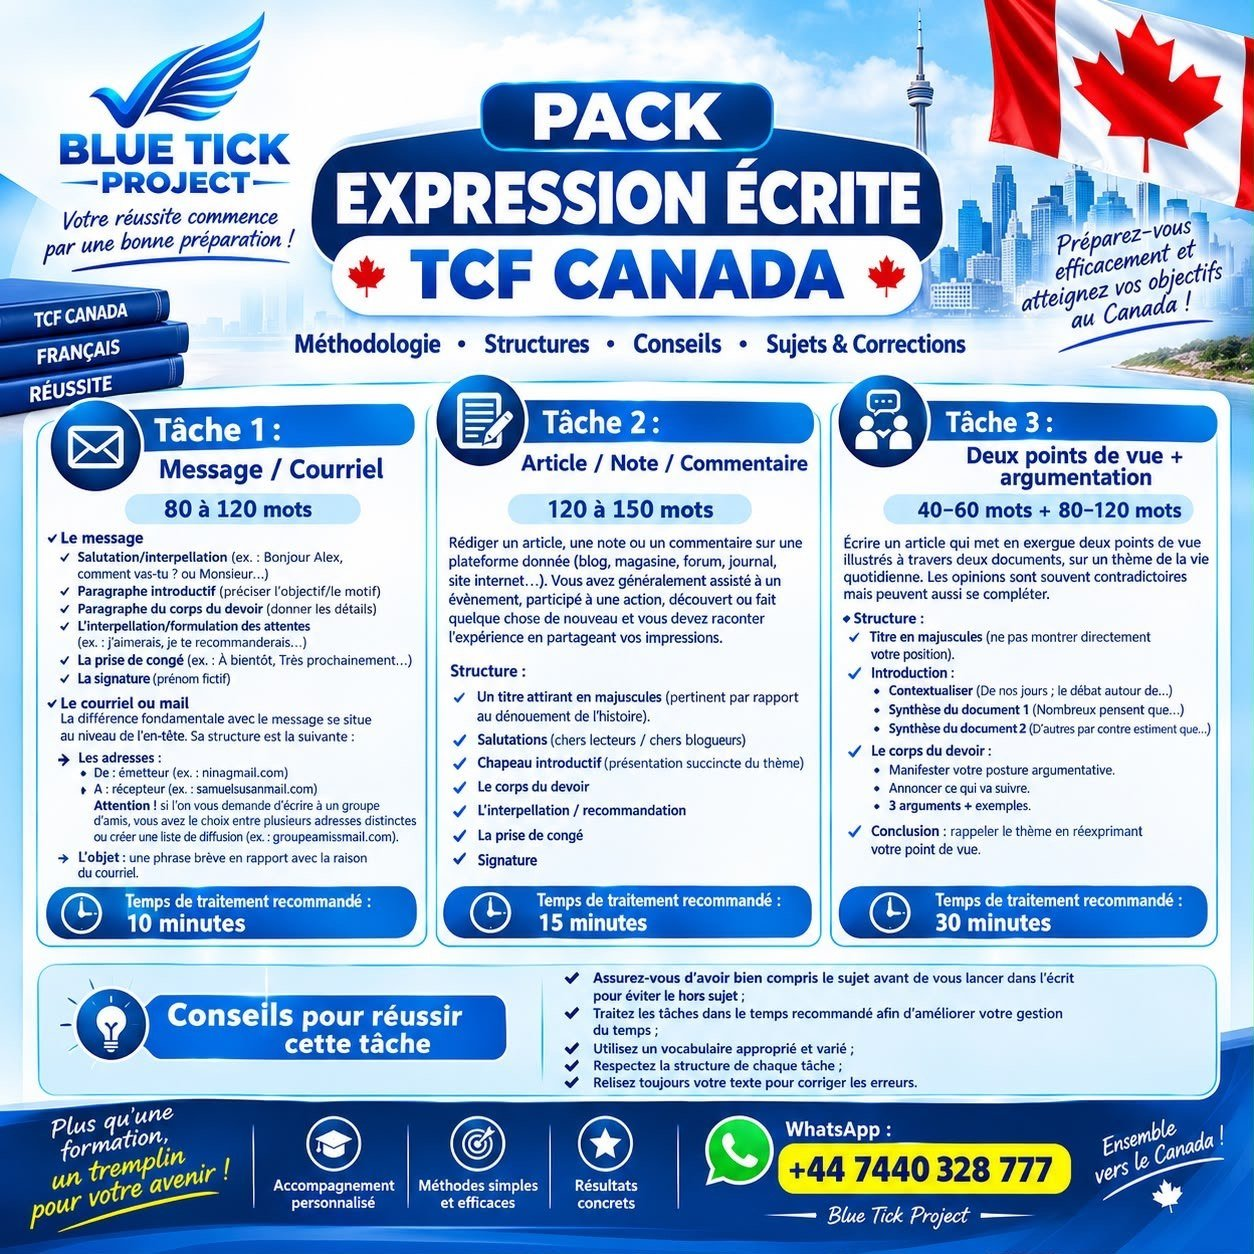
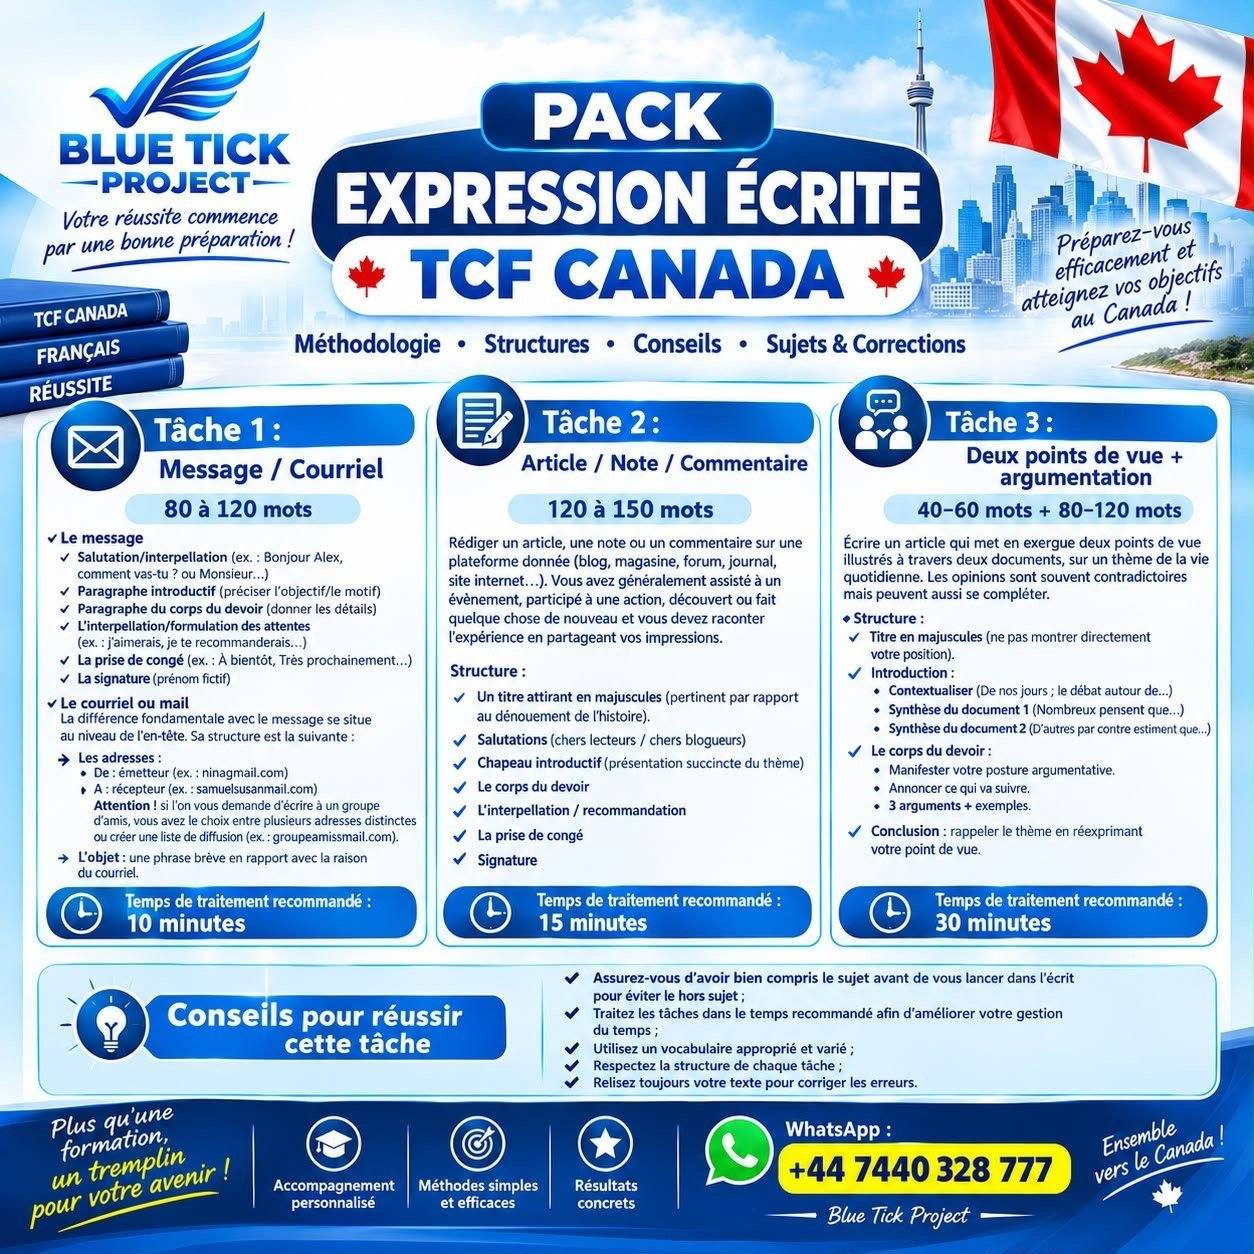
fix: images qui bloquent sur connexion lente (EO, EE, partout)
Le client a signalé que les images (notamment sur Expression orale)
mettent du temps ou échouent à charger sur connexion lente.

- Nouveau composant LoadingImage : skeleton pendant le chargement,
  message "indisponible" propre en cas d'échec au lieu d'un cadre
  vide ou cassé. Appliqué aux 3 infographies méthodologie (EO tâche 1,
  EO vue d'ensemble, EE vue d'ensemble) + attribut loading="lazy".
- Logo du site redimensionné à sa taille d'affichage réelle
  (1280x1280 -> 240x240) : 86 Ko -> 10 Ko. Il est chargé sur *chaque*
  page du site, donc l'alléger profite à toute la navigation, pas
  seulement à une page.
- Les 3 infographies recompressées (qualité 72, texte toujours net) :
  ~20% de poids en moins sans perte de lisibilité.

Changed region(s): [[0.0311, 0.933, 0.1555, 0.9641]]

diff --git a/src/components/LoadingImage.tsx b/src/components/LoadingImage.tsx
@@ -1,0 +1,34 @@
+import { useState } from "react";
+
+type Props = {
+  src: string;
+  alt: string;
+  className?: string;
+};
+
+/** Image avec un skeleton pendant le chargement — évite un rendu vide ou bloqué
+ * sur connexion lente, notamment pour les grandes infographies du site. */
+export function LoadingImage({ src, alt, className }: Props) {
+  const [loaded, setLoaded] = useState(false);
+  const [failed, setFailed] = useState(false);
+
+  return (
+    <div className="relative">
+      {!loaded && !failed && <div className={`animate-pulse rounded-2xl bg-muted ${className ?? "aspect-[4/3] w-full"}`} />}
+      {failed ? (
+        <div className={`grid place-items-center rounded-2xl border border-dashed border-border bg-muted text-xs text-muted-foreground ${className ?? "aspect-[4/3] w-full"}`}>
+          Image indisponible pour le moment
+        </div>
+      ) : (
+        <img
+          src={src}
+          alt={alt}
+          loading="lazy"
+          onLoad={() => setLoaded(true)}
+          onError={() => setFailed(true)}
+          className={`${className ?? "w-full"} transition-opacity duration-200 ${loaded ? "opacity-100" : "absolute inset-0 opacity-0"}`}
+        />
+      )}
+    </div>
+  );
+}

diff --git a/src/pages/ExpressionOrale.tsx b/src/pages/ExpressionOrale.tsx
@@ -5,6 +5,7 @@ import { Seo } from "@/components/Seo";
 import { listEoPrompts, type SpeakingPromptSummary } from "@/lib/speakingPrompts";
 import { useAuth } from "@/lib/AuthContext";
 import methodologie3Taches from "@/assets/eo-methodologie-3-taches.jpg";
+import { LoadingImage } from "@/components/LoadingImage";
 
 const TIPS = [
   "Parle avec assurance même en cas d'hésitation : le débit et l'aisance comptent autant que la grammaire parfaite.",
@@ -51,7 +52,7 @@ export default function ExpressionOrale() {
         <p className="mt-2 text-sm text-muted-foreground">
           Trois tâches enchaînées, en face à face avec l'examinateur.
         </p>
-        <img src={methodologie3Taches} alt="Méthodologie Expression orale TCF Canada — 3 tâches" className="mt-8 w-full rounded-2xl border border-border" />
+        <LoadingImage src={methodologie3Taches} alt="Méthodologie Expression orale TCF Canada — 3 tâches" className="mt-8 w-full rounded-2xl border border-border" />
       </section>
 
       <section className="bg-muted">

diff --git a/src/pages/ExpressionEcrite.tsx b/src/pages/ExpressionEcrite.tsx
@@ -5,6 +5,7 @@ import { Seo } from "@/components/Seo";
 import { listEePrompts, type WritingPromptSummary } from "@/lib/writingPrompts";
 import { useAuth } from "@/lib/AuthContext";
 import methodologie3Taches from "@/assets/ee-methodologie-3-taches.jpg";
+import { LoadingImage } from "@/components/LoadingImage";
 
 const TIPS = [
   "Respecte le nombre de mots demandé : trop court pénalise autant que trop long.",
@@ -54,7 +55,7 @@ export default function ExpressionEcrite() {
         <p className="mt-2 text-sm text-muted-foreground">
           Trois productions écrites de longueur et de complexité croissantes.
         </p>
-        <img src={methodologie3Taches} alt="Méthodologie Expression écrite TCF Canada — 3 tâches" className="mt-8 w-full rounded-2xl border border-border" />
+        <LoadingImage src={methodologie3Taches} alt="Méthodologie Expression écrite TCF Canada — 3 tâches" className="mt-8 w-full rounded-2xl border border-border" />
       </section>
 
       <section className="bg-muted">

diff --git a/src/pages/PracticeEoSession.tsx b/src/pages/PracticeEoSession.tsx
@@ -7,6 +7,7 @@ import { useAuth } from "@/lib/AuthContext";
 import { PremiumUpsell } from "@/components/PremiumUpsell";
 import { AuthRequired } from "@/components/AuthRequired";
 import methodologieTache1 from "@/assets/eo-methodologie-tache1.jpg";
+import { LoadingImage } from "@/components/LoadingImage";
 import NotFound from "./NotFound";
 
 type Tache = 1 | 2 | 3;
@@ -83,7 +84,7 @@ export default function PracticeEoSession() {
 
       <div className="mt-8">
         {tache === 1 ? (
-          <img src={methodologieTache1} alt="Méthodologie Expression orale — Tâche 1 : se présenter" className="w-full rounded-2xl border border-border" />
+          <LoadingImage src={methodologieTache1} alt="Méthodologie Expression orale — Tâche 1 : se présenter" className="w-full rounded-2xl border border-border" />
         ) : currentSujets.length === 0 ? (
           <p className="card-shell p-6 text-sm text-muted-foreground">
             Les sujets de la tâche {tache} pour cette session arrivent bientôt.
